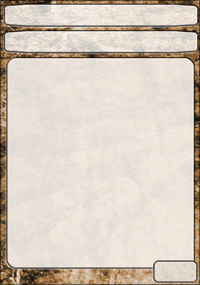
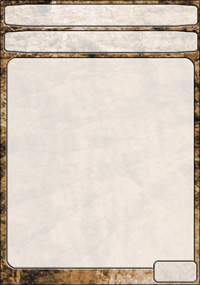
Jeck - Minor change to alternateRender, please review. * Displays card set and rarity where artist info would go on a real card. This makes the shop a little more user friendly, and also helps prevent "Card X, possibly from MRQ" confusion. * Land.jpg contrast in lower left corner modified to work be
git-svn-id: http://wagic.googlecode.com/svn/trunk@970 01922e74-a4c3-11dd-a5cd-697bfd0a0cef

Changed region(s): [[0.0, 0.9263, 0.51, 1.0]]

diff --git a/projects/mtg/src/CardGui.cpp b/projects/mtg/src/CardGui.cpp
@@ -241,6 +241,40 @@ void CardGui::alternateRender(MTGCard * card, const Pos& pos){
     font->DrawString(s.c_str(), pos.actX + (22 - BigWidth / 2)*pos.actZ, pos.actY + (49 - BigHeight / 2)*pos.actZ);
   }
 
+  //expansion and rarity
+  font->SetColor(ARGB((int)pos.actA, 0, 0, 0));
+  {
+    char buf[512];
+    switch(card->getRarity()){
+      case Constants::RARITY_M:
+      case Constants::RARITY_R:
+        sprintf(buf,"%s Rare",MtgSets::SetsList->values[card->setId].c_str());
+        break;
+      case Constants::RARITY_U:
+        sprintf(buf,"%s Uncommon",MtgSets::SetsList->values[card->setId].c_str());
+        break;
+      case Constants::RARITY_C:
+        sprintf(buf,"%s Common",MtgSets::SetsList->values[card->setId].c_str());
+        break;
+      default:
+        sprintf(buf,"%s",MtgSets::SetsList->values[card->setId].c_str());
+        break;
+    }
+    
+    switch(card->getColor())
+    {
+    case Constants::MTG_COLOR_BLACK: 
+    case Constants::MTG_COLOR_LAND: 
+      font->SetColor(ARGB((int)pos.actA,255,255,255));
+      font->DrawString(buf, pos.actX + (22 - BigWidth / 2)*pos.actZ, pos.actY + (BigHeight / 2 - 30)*pos.actZ);
+      break;
+    default:
+      font->DrawString(buf, pos.actX + (22 - BigWidth / 2)*pos.actZ, pos.actY + (BigHeight / 2 - 30)*pos.actZ);
+      break; //Leave black
+    }
+    
+  }
+
   font->SetScale(backup_scale);
 }
 
